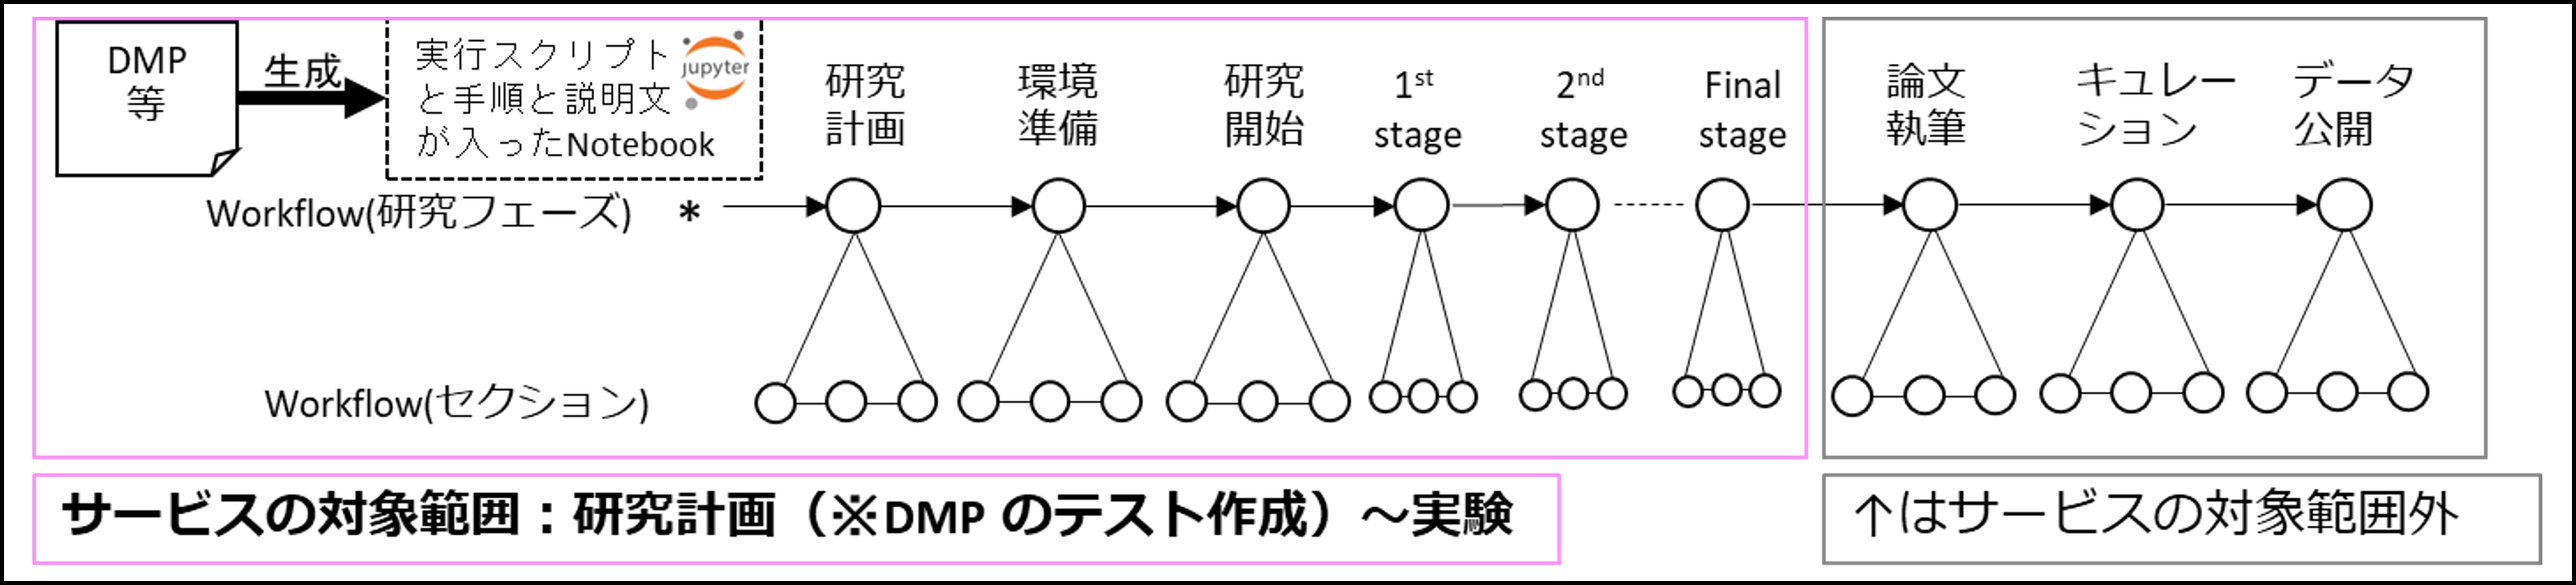
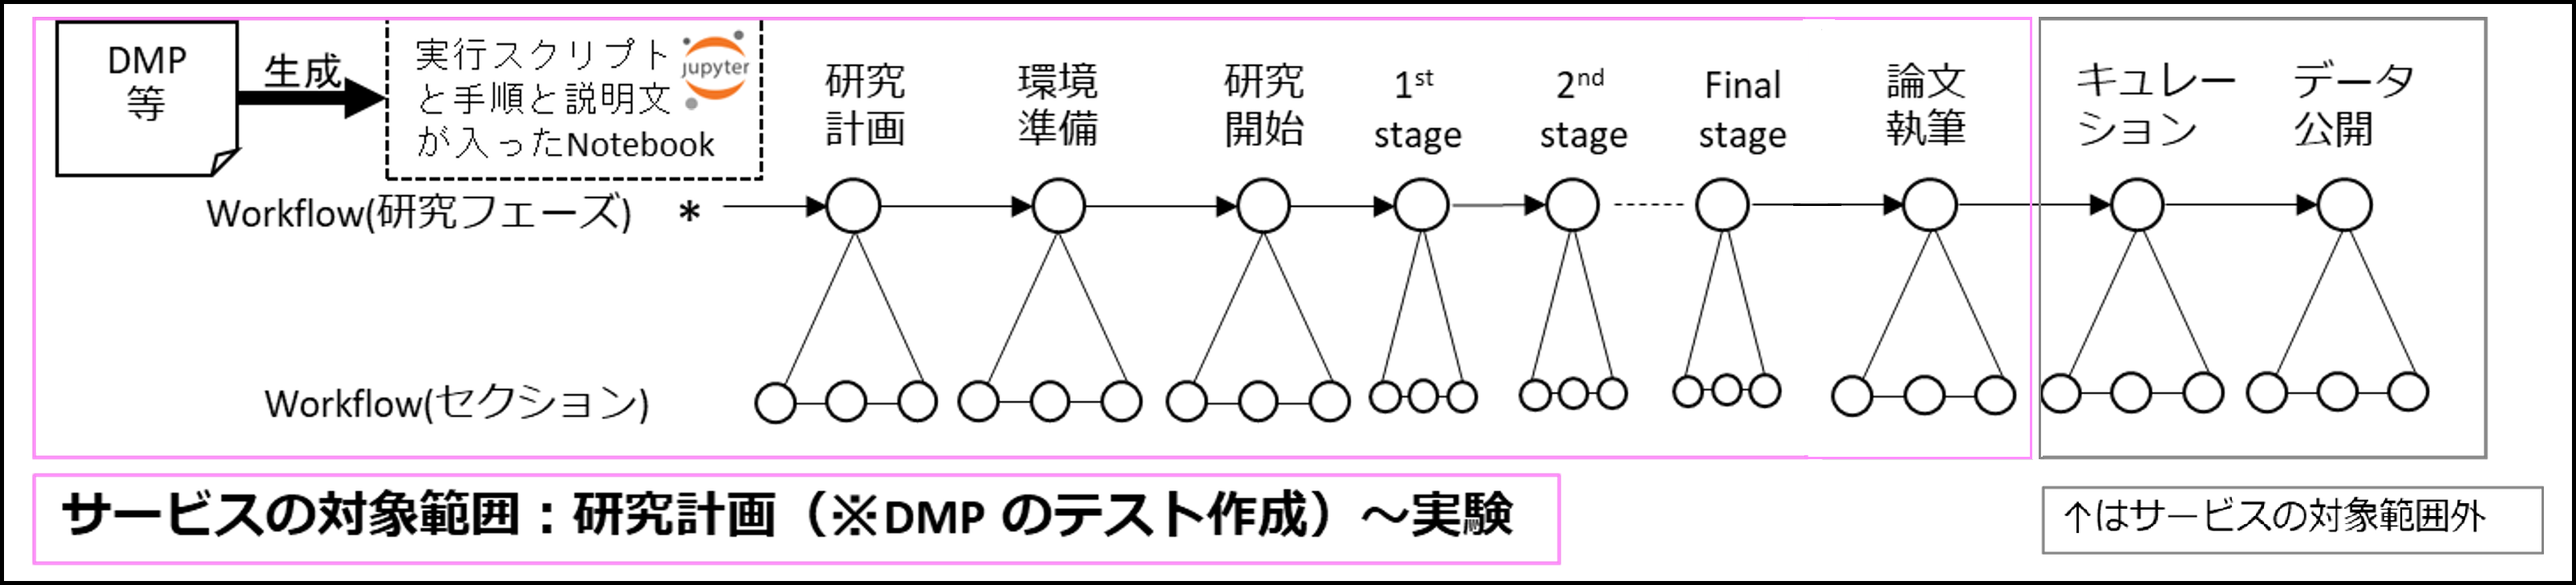
チュートリアルの手順修正

Changed region(s): [[0.6849, 0.0301, 0.9963, 0.9644]]

diff --git a/docs/02_basic/get_started_with_dg_service.md b/docs/02_basic/get_started_with_dg_service.md
@@ -2,21 +2,20 @@
 
 基本編の本編では以下のフローに沿ってリサーチフローを利用した研究の進め方を学習します。
 
-1. [研究用リポジトリを作成する](./get_started/create_repository.md)（下図の①）
-1. [データ管理計画を作成する](./get_started/create_dmp.md)
-1. [MaDMP を作成する](./get_started/create_madmp.md)
-1. [研究実行環境を構築する](./get_started/create_research_env.md)（下図の②、③）
-1. [テスト実験を行う](./get_started/carry_out_test_experiment.md)（下図の④～⑧）
+1. [研究用プロジェクトを作成する](./get_started/create_project.md)（下図の①）
+1. [データ管理計画を作成する](./get_started/create_dmp.md)(下図の②、③)
+1. [研究実行環境を構築する](./get_started/create_research_env.md)（下図の④、⑤）
+1. [テスト実験を行う](./get_started/carry_out_test_experiment.md)（下図の⑥～⑩）
     * 実験実行環境の利用における「Hello world」です。
     * 実験の再開手順も確認します。
 1. [本実験を行う](./get_started/carry_out_main_experiment.md)
     * [本章が扱う研究テーマ](./top.md#本章が扱う研究テーマ)に沿って X 銭広角散乱信号の模擬データを生成します。
-1. [メタデータの状態の検証を行う](./get_started/validate_metadata.md)（下図の⑨、⑩）
+1. [メタデータの状態の検証を行う](./get_started/validate_metadata.md)（下図の⑪、⑫）
     * この検証は研究中いつでも可能です。
 1. [実験結果をインポートして解析を行う](./get_started/carry_out_analysis.md)
     * 本実験で生成された模擬データを解析します。
     * このステップでは画像中心の決定を行います。
-1. [実験結果と解析結果をインポートして更なる解析を行う](./get_started/carry_out_further_analyses.md)
+1. [実験結果と解析結果をインポートして更なる解析を行う](./get_started/carry_out_further_analyses.md)（下図の⑬）
     * 本実験の結果と最初の解析結果（画像中心に関するデータ）を利用して更なる解析を行います。
 1. [研究を終了する](./get_started/finish_research.md)
 

diff --git a/docs/02_basic/get_started/finish_research.md b/docs/02_basic/get_started/finish_research.md
@@ -1,16 +1,16 @@
 ### 研究を終了する
 <!-- GRDM上で削除すれば終わり -->
-基本編の最後のステップとして、本サービスでの研究終了時に研究実行環境の設定を保存して研究実行環境を削除する手順を実践します。実験を終了する時と同じように、研究を実施した環境（つまり研究実行環境）の構成に関する情報を保存してから研究実行環境を削除します。この操作もボタンクリックと少しの画面遷移のみで完結します。
+基本編の最後のステップとして、本サービスでの研究終了時の研究実行環境を削除する手順を実践します。この操作はボタンクリックと少しの画面遷移のみで完結します。
 
-まずは研究フロートップページに遷移します。研究フロー図中の「研究を終了する」をクリックし、研究終了用ノートブック（下図）に遷移します。
+「GakuNin RDM」のプロジェクトのトップページに戻り、ページ上部の「解析」をクリックしてページを移動します。
+![](./images/research_flow_finish_research2.png)
 
-![](./images/research_flow_finish_research.png)
+「削除」にある![](./images/research_flow_finish_research2_icon.png)アイコンをクリックすることで、作成した研究実行環境が削除されます。
 
-そのノートブック中のセルを上から順に実行します。最後のセルの実行後に研究実行環境に対応するタグが表示されます。JupyterHub のサーバー管理画面からこのタグに対応する環境を選択し、stop & delete を実行します。これにより研究実行環境が削除されます。
 
 #### まとめ
 
-本ステップでは研究実行環境の情報を保存し、研究実行環境を削除する方法を試しました。本ステップのポイントは以下の通りです。
+本ステップでは研究実行環境を削除する方法を試しました。本ステップのポイントは以下の通りです。
 
 * 本サービスを利用すると、ボタンクリックと少しの画面遷移のみで研究実行環境が削除できる。
 

diff --git a/docs/02_basic/top.md b/docs/02_basic/top.md
@@ -4,18 +4,22 @@
 
 ## 目次
 
-1. [本章開始の前提](#本章開始の前提)
-1. [本章が扱う研究テーマ](#本章が扱う研究テーマ)
-1. [本章が扱う内容と目標](#本章が扱う内容と目標)
-1. [本編](./get_started_with_dg_service.md)
-1. [基本編のまとめ](./summary.md)
+- [基本編](#基本編)
+  - [目次](#目次)
+  - [本章開始の前提](#本章開始の前提)
+  - [本章が扱う研究テーマ](#本章が扱う研究テーマ)
+  - [本章が扱う内容と目標](#本章が扱う内容と目標)
+  - [本章の訴求点](#本章の訴求点)
+  - [移動用リンク](#移動用リンク)
 
 ## 本章開始の前提
 
-本章を開始する前に、本サービスの利用申請が完了している必要があります。利用申請のフローは以下のページをご参照ください。
+本章を開始する前に、本サービスの利用申請が完了している必要があります。利用申請のフローは以下のページを参照します。なお、リンク先で「利用開始までのステップ」が変更されています。
+
 
 [「データガバナンス機能：先行ユーザ様へのご案内」](https://support.rdm.nii.ac.jp/usermanual/57/)
 
+   
 ## 本章が扱う研究テーマ
 
 本章では以下のような仮想的な研究課題を想定します。
